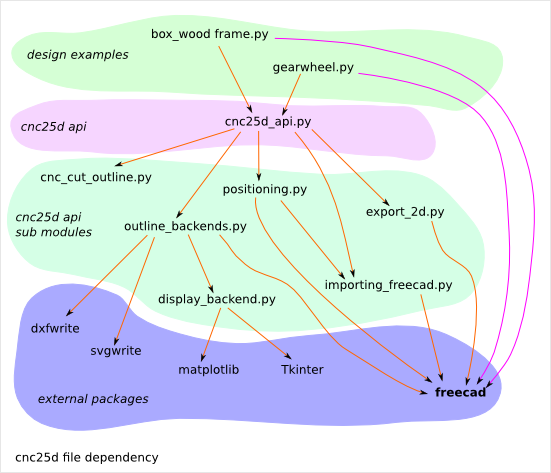
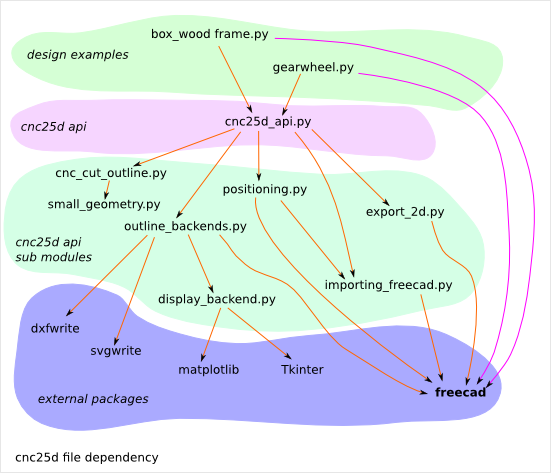
[docs] cnc25d_api doc done

Changed region(s): [[0.0, 0.296, 0.3702, 0.592], [0.3702, 0.2664, 0.4319, 0.296]]

diff --git a/docs/cnc25d_api.rst b/docs/cnc25d_api.rst
@@ -21,15 +21,15 @@ An outline is a list of lines and/or arcs. Other curve type must be generated by
 The cnc25d_api.cnc_cut_outline() function do it for you.
 It returns a new list of 2D points defining the new lines and arcs of the new outline.
 
-3. Exploit the 2D outline
+3. Exploit the 2D outline.
 This new outline can already be export as SVG or DXF.
 It can also be displayed using Tkinter.
 Finally, it can be converted intor FreeCAD Part outline to be extruded in 3D part.
 
-4. Create your 3D assembly
+4. Create your 3D assembly.
 After creating the 3D parts with the FreeCAD Part API, cnc25d_api.place_plank() provides a more natural way to place 3D parts in an assembly than the standard rotate() and translate() methods.
 
-5. Export your design
+5. Export your design.
 Export a cut of a 3D parts with cnc25d_api.export_2d().
 Get a 3D scanning of your assembly with cnc25d_api.export_xyz_to_dxf()
 
@@ -99,7 +99,7 @@ All elements of the *outline format A* list define a segment except the first el
 
 *rbrr* (a.k.a *router_bit radius request*) defines how cnc25d_api.cnc_cut_outline() must modify a corner:
 
-- if rbrr == 0, the corner is unchanged
+- if rbrr = 0, the corner is unchanged
 - if rbrr > 0, the corner is smoothed to fit the router_bit radius *rbrr*
 - if rbrr < 0, the corner is enlarged to fit the router_bit radius *abs(rbrr)*
 
@@ -214,6 +214,17 @@ For comparison, the default result would be:
 3.5. Other outline help functions
 ---------------------------------
 
+*Cnc25D outline format A* and *B* reduce the description of an outline to the 2D coordinates of points. That's a drastic reduction of the amount of Data and still keeping the description accurate. But for complex outlines, a large list of point coordinates might become unreadable. It is preferable, to split a large list into comprehensive smaller sub-paths and then concatenate them. Often patterns will be used several times for an outline with some slight modifications like position (of course), scale, mirror or rotation. This is the purpose of the *outline help functions*.
+
+The *outline help functions* accept as argument the *Cnc25D outline format A* and the *Cnc25D outline format B* and return the outline with the same format::
+
+  cnc25d_api.outline_shift_x(outline_AB, x-offset, x-coefficient)
+  cnc25d_api.outline_shift_y(outline_AB, y-offset, y-coefficient)
+  cnc25d_api.outline_shift_xy(outline_AB, x-offset, x-coefficient, y-offset, y-coefficient)
+  cnc25d_api.outline_rotate(outline_AB, center-x, center-y, rotation_angle)
+  cnc25d_api.outline_close(outline_AB)
+  cnc25d_api.outline_reverse(outline_AB)
+
 3.5.1. outline_shift
 ^^^^^^^^^^^^^^^^^^^^
 
@@ -222,7 +233,7 @@ For comparison, the default result would be:
 | ``cnc_cut_outline.`` **outline_shift_xy(** *list, x-offset, x-factor, y-offset, y-factor* **)**
 |   Return a list that defines a sub-sequence of outline.
 
-The definition a polygon can be quiet long and tedious. It might be useful to split a long list of points into several small sequences and concatenate them into one big list using the *.append()* and *.extend()* methods. Often it happens that sub-sequence patterns appear several times in one outline either shifted or mirrored. The functions *outline_shift_x*, *outline_shift_y* and outline_shift_xy can be use to help the reuse of outline sub sequences. Let's look at the following example.
+The definition an outline can be quiet long and tedious. It might be useful to split a long list of points into several small sequences and concatenate them into one big list using the *.append()* and *.extend()* methods. Often it happens that sub-sequence patterns appear several times in one outline either shifted or mirrored. The functions *outline_shift_x*, *outline_shift_y* and outline_shift_xy can be use to help the reuse of outline sub sequences. Let's look at the following example.
 
 .. image:: images/outline_with_repeated_sub_sequences.png
 
@@ -255,9 +266,115 @@ If we want to define this outline brutally, we must create a list of 28 points. 
 
 This code is easier to maintain.
 
+3.5.2. outline_rotate
+^^^^^^^^^^^^^^^^^^^^^
+
+::
+
+  cnc25d_api.outline_rotate(outline_AB, center-x, center-y, rotation_angle)
+  return outline_AB
+
+It applies a rotation of center (x,y) and angle *rotation_angle* to each points of the input outline.
+
+3.5.2. outline_close
+^^^^^^^^^^^^^^^^^^^^
+
+::
+
+  cnc25d_api.outline_close(outline_AB)
+  return outline_AB
+
+If the input outline is open, it closes it with a straight line (from the end-point of the last segment to the first-point).
+
+3.5.3. outline_reverse
+^^^^^^^^^^^^^^^^^^^^^^
+
+::
+
+  cnc25d_api.outline_reverse(outline_AB)
+  return outline_AB
+
+It reverses the order of the segments. If the outline is closed, that reverses its orientation (from CCW to CW or opposite). Notice that the *.reverse()* python method would not return a valid outline (format A or B) because of the *first-point* and the *middle-point* of arcs.
+
 4. Cnc25D outline utilization
 =============================
 
+After getting a *Cnc25D format B outline* from the cnc_cut_outline() function, you probably want to use this outline in CAD_ tools. The function *cnc25d_api.outline_arc_line()* lets you transform the *Cnc25D format B outline* into one of this four formats: *freecad*, *svgwrite*, *dxfwrite*, *tkinter*.
+
+.. _CAD : https://en.wikipedia.org/wiki/Comparison_of_CAD_editors_for_AEC
+
+::
+
+  cnc25d_api.outline_arc_line(outline_B, backend)
+  cnc25d_api.outline_circle((center-x, center-y), radius, backend)
+
+  with backend=['freecad', 'svgwrite', 'dxfwrite', 'tkinter']
+
+
+4.1. freecad
+------------
+
+*outline_arc_line(outline_B, 'freecad')* returns *FreeCAD Part.Shape* object that can be used easily in the classic *FreeCAD* workflow::
+
+  my_part_shape = cnc25d_api.outline_arc_line(my_outline_B, 'freecad')
+  my_part_face = Part.Face(Part.Wire(my_part_shape.Edges))
+  my_part_solid = my_part_face.extrude(Base.Vector(0,0,20))
+
+Notice that *FreeCAD* conserve the *arc* geometrical entity during its complete workflow. So after extruding the outline, slicing the part and then projecting it again in a DXF file, you still get the *arcs* you have designed in your original outline.
+
+The combination *outline_arc_line(cnc_cut_outline(), 'freecad')* is often used. So the *Cnc25D API* proposes this combination with the function *cnc25d_api.cnc_cut_outline_fc()*.
+
+With this methodolgy you can create and extrude any outline made out of lines and arcs. But creating a *circle* outline is not directly possible. You need to create two consecutive arcs, which is not very convenient. If you want to create a circle (to extrude it into a cylinder), you can use the function *cnc25d_api.outline_circle((center-x, center-y), radius, 'freecad')*.
+
+4.2. svgwrite
+-------------
+
+A *Cnc25D format B outline* is a 2D vectorial shape that can be transposed in a SVG_ file. *SVG file* is one of the usual input format for the 3-axis CNC tool chain. This snippet let you dump the *Cnc25D format B outline* in a *SVG* file::
+
+  import svgwrite
+  my_outline_B = [ .. ]
+  object_svg = svgwrite.Drawing(filename = "my_ouline.svg")
+  svg_outline = cnc25d_api.outline_arc_line(my_outline_B, 'svgwrite')
+  for one_line_or_arc in svg_outline:
+    object_svg.add(one_line_or_arc)
+  #one_svg_circle = cnc25d_api.outline_circle((100,100), 40, 'svgwrite') # create a circle
+  #object_svg.add(one_svg_circle)
+  object_svg.save()
+
+*Cnc25D* relies on the *Python package* svgwrite_ from **mozman**. Use Inkscape_ to review the generated *SVG* file.
+
+.. _svgwrite : http://pythonhosted.org/svgwrite/
+.. _Inkscape : http://inkscape.org/
+
+**Warning:** The SVG_ format supports the *arc* graphical object but the Python package svgwrite_ has not implemented yet the *arc* constructor. So *Cnc25D* transform each *arc* of the outline into a series of small segments. This might be an issue for certain *CNC tool chain* or for some designs.
+
+4.3. dxfwrite
+-------------
+
+A *Cnc25D format B outline* is a 2D vectorial shape that can be transposed in a DXF_ file::
+
+  import dxfwrite
+  my_outline_B = [ .. ]
+  object_dxf = DXFEngine.drawing("my_outline.dxf")
+  #object_dxf.add_layer("my_dxf_layer")
+  dxf_outline = cnc25d_api.outline_arc_line(my_outline_B, 'dxfwrite')
+  for one_line_or_arc in dxf_outline:
+    object_dxf.add(one_line_or_arc)
+  #one_dxf_circle = cnc25d_api.outline_circle((100,100), 40, 'dxfwrite') # create a circle
+  #object_dxf.add(one_dxf_circle)
+  object_dxf.save()
+
+*Cnc25D* relies on the *Python package* dxfwrite_ from **mozman**. Use LibreCAD_ to review the generated *DXF* file.
+
+.. _dxfwrite : http://pythonhosted.org/svgwrite/
+.. _LibreCAD : http://librecad.org
+
+**Warning:** Like previously, the DXF_ format supports the *arc* graphical object but the Python package dxfwrite_ has not implemented yet the *arc* constructor. So *Cnc25D* transform each *arc* of the outline into a series of small segments. This might be an issue for certain *CNC tool chain* or for some designs.
+
+4.4. tkinter
+------------
+
+During the early phase of the design, you just need to view the outline (that still might be under-construction) without using the powerful *FreeCAD* or dumping files. This is the purpose of the *Tkinter GUI*. Check the design example *cnc25d_api_example.py* generated by the binary *cnc25d_example_generator.py* or check the file *cnc25d/tests/cnc25d_api_macro.py* to see how to implement this small *graphic user interface*.
 
 5. Working with FreeCAD
 =======================

diff --git a/docs/cnc_cut_outline.rst b/docs/cnc_cut_outline.rst
@@ -58,6 +58,8 @@ For fitting not coplanar shapes, we need to enlarge inner corners.
 
 For fitting two coplanar shapes, the inner and outer corners must be smoothed.
 
+This section details the calculation related to *smoothed line-line corner*. To get the calculation related to *smoothed line-arc corner* and *smoothed arc-arc corner*, check the *SVG* files *docs/smooth_corner_line_arc.svg* and *docs/smooth_corner_arc_arc.svg*.
+
 .. image:: images/detailed_coplanar_fitting.png
 
 ::
@@ -129,6 +131,8 @@ Other method with the law of cosines c²=a²+b²-2*a*b*cos(C)
 =============================
 
 For fitting two not-coplanar shapes, the inner corners must be enlarged.
+
+This section details the calculation related to *enlarged line-line corner*. To get the calculation related to *enlarged line-arc corner* and *enlarged arc-arc corner*, check the *SVG* file *docs/enlarge_corner_arc_arc.svg*.
 
 4.1.1. Case of an inner obtuse angle
 ------------------------------------

diff --git a/docs/cnc25d_internals.rst b/docs/cnc25d_internals.rst
@@ -44,6 +44,7 @@ Cnc25D Internals
       micropreprocessor.py                        # lets generate cnc25d_example_generator.py
       note_on_cnc25d_dev.txt                      # notes for developers 
 
+.. image:: images/cnc25d_file_dependency.png
 
 2. Design example generation
 ============================
